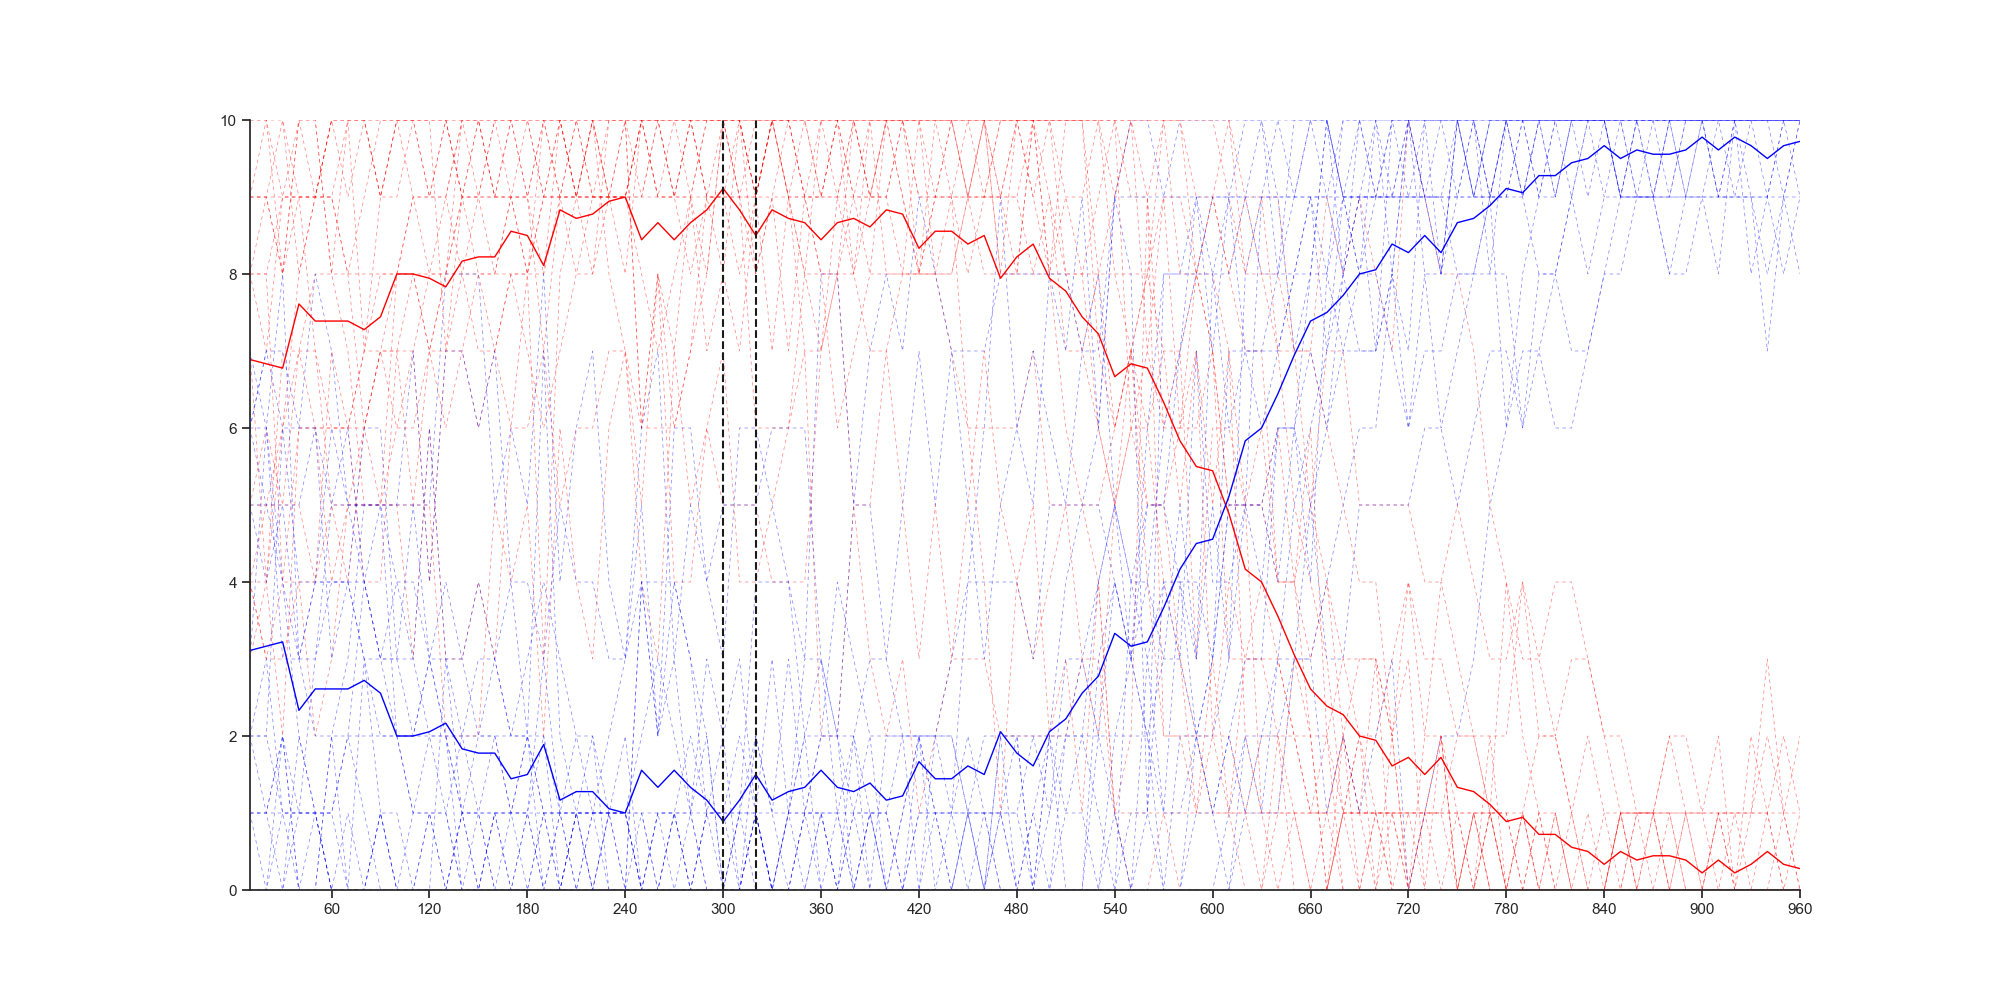
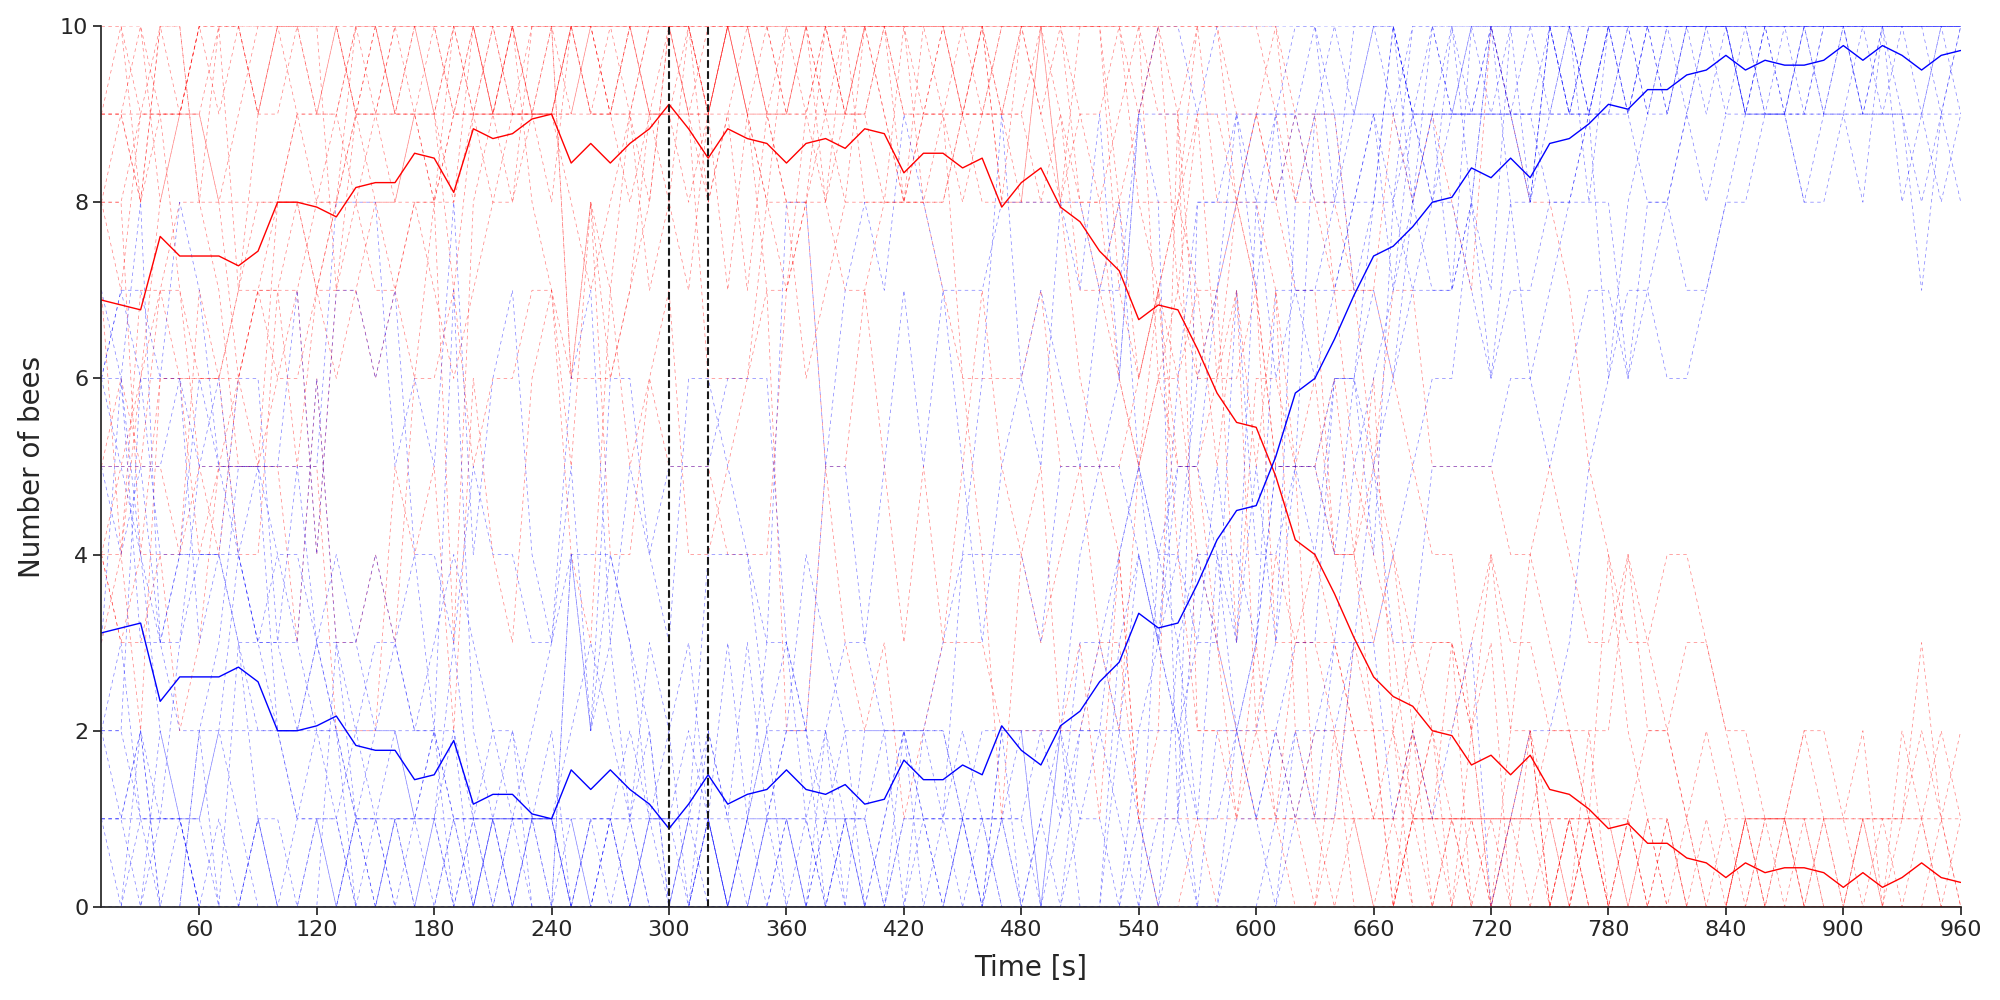
starting with the anlysis of the Casu2 experiments, data is read in must be processed

diff --git a/Casu1/plotting_Casu1.py b/Casu1/plotting_Casu1.py
@@ -16,6 +16,8 @@ def plotting_plot(x_axis, y_casu_1, y_casu_2, mean_casu_1, mean_casu_2):
     ax.set_xlim(10, 960)
     ax.set_ylim(0, 10)
     ax.xaxis.set_major_locator(MultipleLocator(60))
+    ax.set_ylabel('Number of bees', fontsize=20, labelpad=10)
+    ax.set_xlabel('Time [s]', fontsize=20, labelpad=10)
 
     for i in y_casu_1:
         plt.plot(x_axis, i, color='red', alpha=0.5, linewidth=0.5, linestyle=(0, (5, 5)))
@@ -25,10 +27,13 @@ def plotting_plot(x_axis, y_casu_1, y_casu_2, mean_casu_1, mean_casu_2):
 
     plt.plot(x_axis, mean_casu_1, color='red', linewidth=1)
     plt.plot(x_axis, mean_casu_2, color='blue', linewidth=1)
+    plt.yticks(fontsize=16)
+    plt.xticks(fontsize=16)
 
     plt.vlines(300, 0, 11, colors='k', linestyles='dashed')
     plt.vlines(320, 0, 11, colors='k', linestyles='dashed')
 
-    plt.savefig(os.path.join(path, 'graphs', 'casuexp_1_line_plot.png'))
+    fig1.tight_layout()
+    plt.savefig(os.path.join(path, '..', 'graphs', 'casuexp_1_line_plot.png'))
 
 

diff --git a/HuberBoxDataProcessing/Huberbox.py b/HuberBoxDataProcessing/Huberbox.py
@@ -91,10 +91,10 @@ def TestNormalDistribution(DataList):
 def statisticalTesting(DataList):
     if DataList[2] == True:
         statistic, p_lev = stats.levene(DataList[0], DataList[1])
-        if p_lev <= 0.05:
+        if p_lev >= 0.05:
             statistic, p_val = stats.ttest_ind(DataList[0], DataList[1], equal_var=True, alternative='less')
             return f'The students-T-test with equal variance returns a p value of {p_val} with a statistic of {statistic}'
-        elif p_lev >= 0.05:
+        elif p_lev < 0.05:
             statistic, p_val = stats.ttest_ind(DataList[0], DataList[1], equal_var=False, alternative='less')
             return f'The students-T-test with no equal variance returns a p value of {p_val} with a statistic of {statistic}'
     elif DataList[2] == False:

diff --git a/Casu2/DataProcessing.py b/Casu2/DataProcessing.py
@@ -1,0 +1,19 @@
+import pandas as pd
+
+def ReadData(url: str) -> pd.DataFrame: 
+    """    This function downloads the data from a GoogleTable sheet with the given link and transformes them into a csv and then reads them in into a pd.DataFrame
+
+    Args:
+        url (str): 
+
+    Returns:
+        pd.DataFrame: _description_
+    """
+    url_read = url.replace('/edit#gid=', '/export?format=csv&gid=')
+
+    df = pd.read_csv(url_read, on_bad_lines='skip')
+
+    return df
+
+df = ReadData('https://docs.google.com/spreadsheets/d/1c5eXRyP4uLSDKJ_1PHlx48nZ8wQ06mUr1Ayrty-kfDg/edit#gid=0')
+print(df.head(10))
